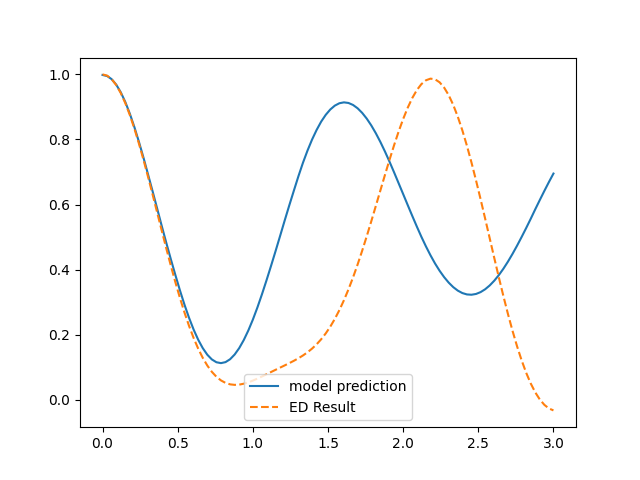
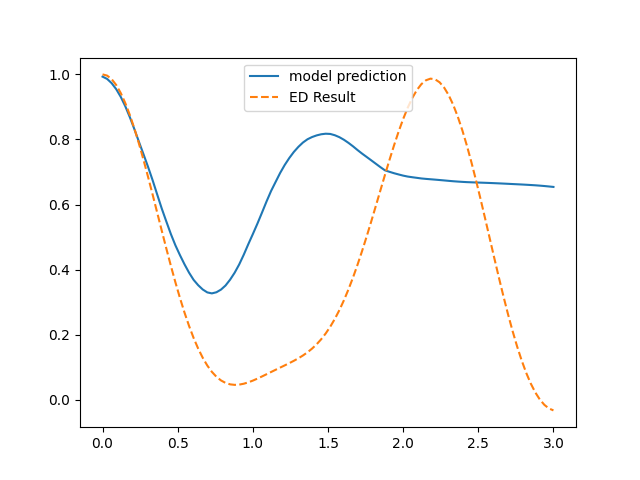
added new euler act func

diff --git a/model.py b/model.py
@@ -19,7 +19,7 @@ g_dtype = torch.float32
 ###setting up hamiltonian ###
 lattice_sites = 4
 
-h2_range = [(0.4, 0.6)]
+h2_range = [(0.45, 0.55)]
 
 h1 = []
 for l in range(lattice_sites):
@@ -61,7 +61,7 @@ val_dataloader = DataLoader(val_data, batch_size=len(val_data), num_workers=24)
 val_iter = iter(val_dataloader)
 
 train_data = Datasets.Train_Data(lattice_sites, [h1_mat, h2_mat], h2_range, o_mat, g_dtype,  t_max=3)
-train_dataloader = DataLoader(dataset=train_data, batch_size=1000, num_workers=24)
+train_dataloader = DataLoader(dataset=train_data, batch_size=100, num_workers=24)
 data_iter = iter(train_dataloader)
 
 
@@ -79,55 +79,75 @@ class Model(pl.LightningModule):
     '''
     super().__init__()
     
-    '''
+    
     self.lattice_net = nn.Sequential(
       nn.Conv1d(1, 8, kernel_size=2, padding=1, padding_mode='circular'),
       utils.even_act(),
-      nn.Conv1d(8, 8, kernel_size=2, padding=1, padding_mode='circular'),
+      nn.Conv1d(8, 8, kernel_size=2, padding=1, padding_mode='zeros'),
       utils.odd_act(),
-      nn.Conv1d(8, 16, kernel_size=2, padding=1, padding_mode='circular'),
+      nn.Conv1d(8, 16, kernel_size=2, padding=1, padding_mode='zeros'),
       utils.odd_act(),
       nn.Flatten(start_dim=1, end_dim=-1)
     )
-    '''
-    lattice_hidden = 64
-    mult_size = 128
-    tNN_hidden = 256
-    psi_hidden = 128
     
+    lattice_hidden = 64
+    mult_size = 16 * (lattice_sites + 3)
+    tNN_hidden = 64
+    psi_hidden = 64
+    
+    '''
     self.lattice_net = nn.Sequential(
       # 2 * lattice_sites due to one hot encoding
       nn.Linear(2 * lattice_sites, lattice_hidden),
       nn.ReLU(),
       nn.Linear(lattice_hidden, mult_size),
+      nn.ReLU(),
+      nn.Linear(lattice_hidden, mult_size),
       nn.ReLU()
     )
-    
+    '''
     self.tNN = nn.Sequential(
       nn.Linear(2, tNN_hidden),
+      nn.ReLU(),
+      nn.Linear(tNN_hidden, tNN_hidden),
       nn.ReLU(),
       nn.Linear(tNN_hidden, tNN_hidden),
       nn.ReLU(),
       nn.Linear(tNN_hidden, mult_size),
       nn.ReLU()
     )
-
+    '''
     self.psi = nn.Sequential(
       nn.Linear( mult_size, psi_hidden ),
       nn.ReLU(),
       nn.Linear(psi_hidden, psi_hidden),
       nn.ReLU(),
+      nn.Linear(psi_hidden, psi_hidden),
+      nn.ReLU(),
       nn.Linear(psi_hidden, 2)
+    )
+    '''
+    self.psi = nn.Sequential(
+      nn.Linear( mult_size, psi_hidden),
+      nn.ReLU(),
+      nn.Linear(psi_hidden, psi_hidden),
+      nn.ReLU(),
+      utils.Euler_act(),
+      nn.Linear(int(psi_hidden / 2), psi_hidden, dtype=torch.complex64),
+      utils.complex_relu(),
+      nn.Linear(psi_hidden, 1, dtype=torch.complex64)
     )
     
     '''
-    hidden_size = 32
+    hidden_size = 64
     self.simple_model = nn.Sequential(
-      nn.Linear( 2 * lattice_sites + 1 , hidden_size, dtype=g_dtype),
-      nn.SELU(),
+      nn.Linear( 2 * lattice_sites + 2 , hidden_size, dtype=g_dtype),
+      nn.ReLU(),
       nn.Linear( hidden_size, hidden_size, dtype=g_dtype),
-      nn.SELU(),
-      nn.Linear( hidden_size, 2, dtype=g_dtype)
+      nn.ReLU(),
+      nn.Linear( hidden_size, hidden_size, dtype=g_dtype),
+      nn.ReLU(),
+      nn.Linear( hidden_size, 4, dtype=g_dtype)
     )
     '''
     self.flatten_spins = nn.Flatten(end_dim=-1)
@@ -136,17 +156,19 @@ class Model(pl.LightningModule):
 
   def forward(self, spins, alpha):
     #unsqueeze since circular padding needs tensor of dim 3
-    #lat_out = self.lattice_net(spins.unsqueeze(1))
-    one_hot_spins = utils.flat_one_hot(spins)
-    one_hot_spins = self.flatten_spins(one_hot_spins)
-    lat_out = self.lattice_net(one_hot_spins)
+    lat_out = self.lattice_net(spins.unsqueeze(1))
+    #one_hot_spins = utils.flat_one_hot(spins)
+    #one_hot_spins = self.flatten_spins(one_hot_spins)
+    #lat_out = self.lattice_net(one_hot_spins)
     
     t_out = self.tNN(alpha)
 
     #rad_and_phase = self.psi( torch.cat((t_out, lat_out), dim=1))
-    rad_and_phase = self.psi( t_out * lat_out )
-
-    psi = rad_and_phase[:, 0] * torch.exp( 1.j * rad_and_phase[:, 1] )
+    psi = self.psi( (t_out * lat_out) )
+    #rad_and_phase = self.psi( t_out * lat_out )
+    #rad_and_phase = self.simple_model( torch.cat((one_hot_spins, alpha), dim=1))
+    #psi = rad_and_phase[:, 0] * torch.exp( 1.j * rad_and_phase[:, 1] )
+    #psi = rad_and_phase[:, 0] * torch.exp( 1.j * rad_and_phase[:, 1] ) +  rad_and_phase[:, 2] * torch.exp( -1.j * rad_and_phase[:, 3] ) 
     #psi = torch.exp(-1j * alpha * spins) / np.sqrt(2)
     return psi
     
@@ -217,8 +239,6 @@ class Model(pl.LightningModule):
     psi_sp_h = self.call_forward_sp(sp_h, alpha)
     #calc h_loc for h
     h_loc = utils.calc_Oloc(psi_sp_h, h_mat, spins)
-    #print('h_loc dtype: ', h_loc.dtype)
-    #calc dt_psi(s, alpha)
     dt_psi_s = utils.calc_dt_psi(psi_s, alpha)
     
     #get s' and psi(s', alpha) for o at t=0
@@ -245,7 +265,7 @@ class Model(pl.LightningModule):
     psi_sp_o = self.call_forward_sp(sp_o, alpha)
     o_loc = utils.calc_Oloc(psi_sp_o, o_mat, spins)
     val_loss, observable = utils.val_loss(psi_s, o_loc, o_target)
-    #self.log('val_loss', val_loss, prog_bar=True, logger=True)
+    self.log('val_loss', val_loss, prog_bar=True, logger=True)
     fig, ax = plt.subplots()
     ax.plot(alpha[:, 0, 0].cpu(), observable.cpu(), label='model prediction')
     ax.plot(alpha[:, 0, 0].cpu(), o_target.cpu(), label='ED Result', ls='--')
@@ -265,41 +285,6 @@ class Model(pl.LightningModule):
 model = Model(lattice_sites, h_map, o_map)
 print(model)
 
-trainer = pl.Trainer(fast_dev_run=False, gpus=1)
+trainer = pl.Trainer(fast_dev_run=False, gpus=1, max_epochs=20)
 trainer.fit(model, train_dataloader, val_dataloader)
 
-'''
-spins, alpha, alpha_0, h_mat1, o_mat1 = next(data_iter)
-#print(spins.shape, alpha.shape, alpha_0.shape, h_mat1.shape, o_mat1.shape)
-#print('alpha: \n', alpha, alpha.shape)
-#print( 'spins: \n', spins, spins.shape)
-alpha.requires_grad = True
-#get psi(s, alpha)
-psi_s = model.call_forward(spins, alpha)
-#get s' and psi(s', alpha) for h
-sp_h = utils.get_sp(spins, model.h_map)
-
-psi_sp_h = model.call_forward_sp(sp_h, alpha)
-#calc h_loc for h
-#print( 'sprimes: \n', sp_h, sp_h.shape)
-#print('psi_sp_h: \n', psi_sp_h)
-h_loc = utils.calc_Oloc(psi_sp_h, h_mat, spins)
-
-#calc dt_psi(s, alpha)
-dt_psi_s = utils.calc_dt_psi(psi_s, alpha)
-
-#print('dt_psi_s: ', dt_psi_s, dt_psi_s.shape)
-
-#get s' and psi(s', alpha) for o at t=0
-sp_o = utils.get_sp(spins, model.o_init_map)
-
-psi_sp_o = model.call_forward_sp(sp_o, alpha_0)
-psi_s_0 = model.call_forward(spins, alpha_0)
-
-#calc o_loc for o
-o_loc = utils.calc_Oloc(psi_sp_o, o_mat, spins)
-
-#calc loss
-loss = utils.train_loss2(dt_psi_s, h_loc, psi_s_0, o_loc, alpha)
-print('loss: ', loss)
-'''

diff --git a/utils.py b/utils.py
@@ -158,23 +158,28 @@ def psi_norm(psi_s):
   '''
   return (torch.abs(psi_s)**2).sum(1)
 
-def train_loss(dt_psi_s, h_loc, psi_s_0, o_loc, alpha):
+def train_loss(dt_psi_s, h_loc, psi_s, psi_s_0, o_loc, alpha):
   #TODO Documentation
   h_loc_sq_sum = (torch.abs(h_loc)**2).sum(1)
   dt_psi_sq_sum = (torch.abs(dt_psi_s)**2).sum(1)
-  dt_psi_h_loc_sum = (torch.abs((dt_psi_s * h_loc).sum(1))**2)
+  dt_psi_h_loc_sum = (torch.abs((torch.conj(dt_psi_s) * h_loc).sum(1))**2)
 
   abs_val = torch.mean( torch.exp(- alpha[:, 0, 0]) * (torch.abs( dt_psi_sq_sum - h_loc_sq_sum ))**2 )
   angle = torch.mean( -1 * torch.exp(- alpha[:, 0, 0]) * dt_psi_h_loc_sum / (dt_psi_sq_sum * h_loc_sq_sum) )
   #exact_angle = torch.mean( torch.acos(torch.sqrt(torch.real(dt_psi_h_loc_sum / (dt_psi_sq_sum * h_loc_sq_sum)))))
   #print('exact_angle: ', exact_angle)
   psi_s_0_sq_sum = (torch.abs(psi_s_0)**2).sum(1)
-  psi_0_o_loc_sum = (psi_s_0 * o_loc).sum(1)
+  psi_0_o_loc_sum = (torch.conj(psi_s_0) * o_loc).sum(1)
 
   init_cond = torch.mean( (torch.abs( (psi_0_o_loc_sum / psi_s_0_sq_sum) - 1)) ** 2 )
+
+  #part to encourage a normed wave fun
+  batched_norm = psi_norm(psi_s)
+  norm = torch.mean( (batched_norm - 1) ** 2 )
+
   #return (-angle + abs_val + 1000 * init_cond)
-  #return abs_val + angle + 10 * init_cond
-  return init_cond
+  return abs_val + angle + 10 * init_cond + norm, angle, init_cond, norm
+  #return init_cond
 
 def train_loss2(dt_psi_s, h_loc, psi_s, psi_s_0, o_loc, alpha):
   #part to satisfy initial condition
@@ -189,6 +194,7 @@ def train_loss2(dt_psi_s, h_loc, psi_s, psi_s_0, o_loc, alpha):
   dt_psi_h_loc_sum = (torch.conj(dt_psi_s) * h_loc).sum(1)
   #print("abs val diff: ", torch.abs(h_loc_sq_sum - dt_psi_h_loc_sum))
   schroedinger = torch.mean( torch.exp(- alpha[:, 0, 0]) * torch.abs( h_loc_sq_sum + dt_psi_sq_sum - 2 * torch.imag(dt_psi_h_loc_sum) ) ** 2)
+  #schroedinger = torch.mean( torch.abs( h_loc_sq_sum + dt_psi_sq_sum - 2 * torch.imag(dt_psi_h_loc_sum) ) ** 2)
 
   #part to encourage a normed wave fun
   batched_norm = psi_norm(psi_s)
@@ -257,3 +263,10 @@ class Mult_Inputs(nn.Module):
     super().__init__()
   def forward(self, inp1, inp2): 
     return inp1 * inp2
+
+class Euler_act(nn.Module):
+  def __init__(self):
+    super().__init__()
+  def forward(self, x):
+    x = x.reshape(x.shape[0], int(x.shape[1] / 2), 2)
+    return x[:, :, 0] * torch.exp(1j*x[:, :, 1])
